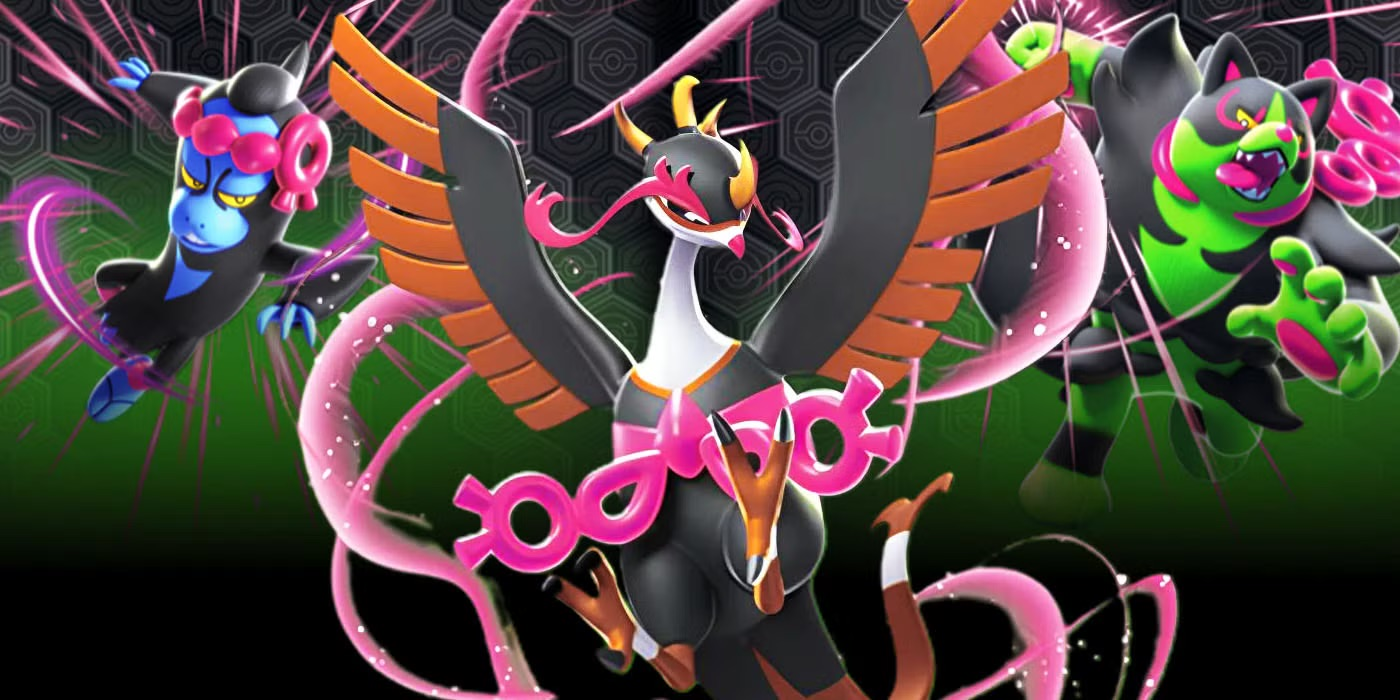
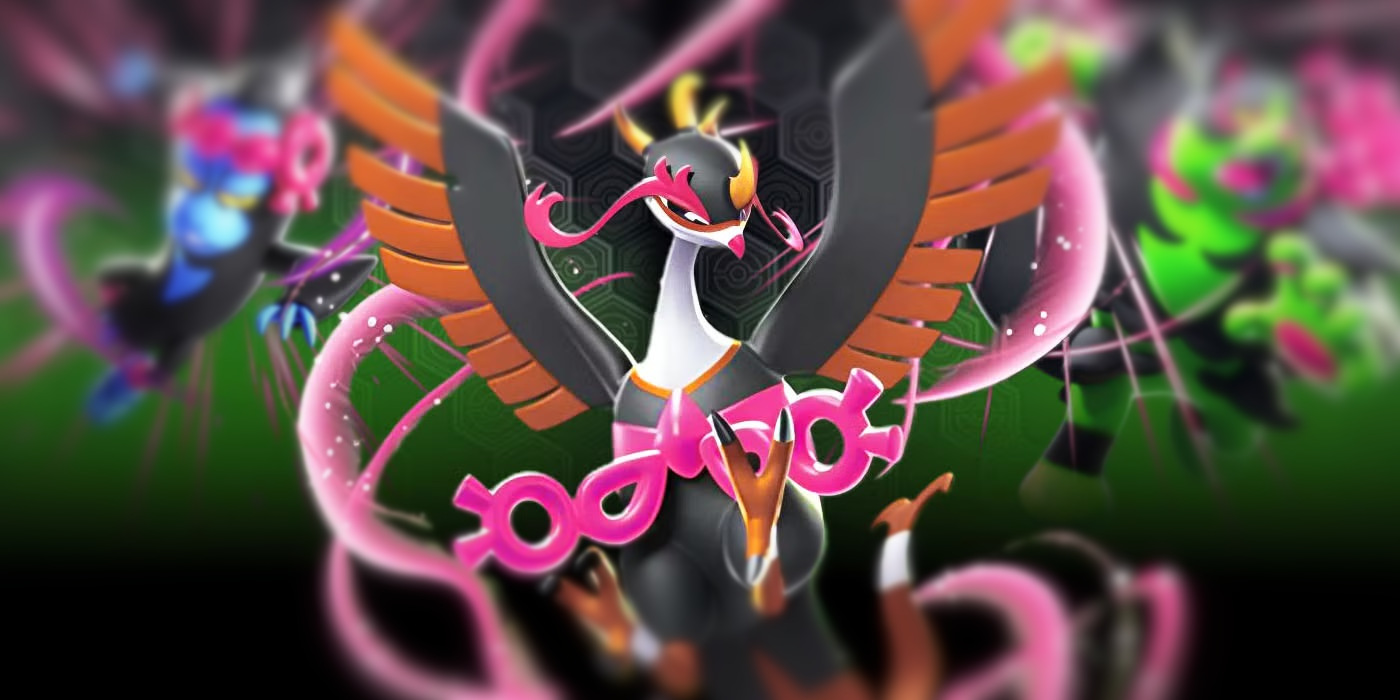
Day 4 First

diff --git a/src/index.css b/src/index.css
@@ -80,17 +80,25 @@ video {
 .Pimage {
     position: relative;
     height: 90vh;
-    filter: blur(8px);
-    -webkit-filter: blur(8px);
-    -webkit-filter: drop-shadow(12);
-    border-radius: 40px 40px 40px 40px;
+    border-radius: 40px; /* Simplified border-radius shorthand */
+    overflow: hidden; /* Ensure the content respects the border-radius */
+    z-index: 1; /* Ensure the background stays behind the logo */
+}
+.Pimage ::backdrop {
+    filter: blur(8px); /* Apply blur to the background */
+    -webkit-filter: blur(8px) drop-shadow(12px); /* Apply both blur and drop shadow */
+}
+.Plogo {
+    position: absolute;
+    top: 300px;           
+    left: 50%;          
+    transform: translate(-50%, -50%); /* Center logo vertically and horizontally */
+    z-index: 2; /* Ensure the logo stays on top of the blurred background */
 }
 
-.content {
-    display: flex;
-    align-items: center;
-    justify-content: center;
-    position: absolute;
-    height: 100vh;
-    width: 100%;
+.Plogo img {
+    width: 700px; /* Set logo size */
+    height: auto; /* Maintain aspect ratio */
+    filter: drop-shadow(12px); /* Keep drop shadow for the logo */
+    -webkit-filter: drop-shadow(12px);
 }

diff --git a/src/ImageTwilight.tsx b/src/ImageTwilight.tsx
@@ -1,8 +1,12 @@
 import { Parallax } from "react-parallax";
-import Twilight from "./assets/Twilight/TwilightmasBGIMG.jpg";
-
+import Twilight from "./assets/Twilight/TwilightmasBGIMG.jpeg";
+import Logo from "./assets/Twilight/TwilightMasLogo.png";
 const ImageTwilight = () => (
-  <Parallax className="Pimage" bgImage={Twilight} strength={200}></Parallax>
+  <Parallax className="Pimage" bgImage={Twilight} strength={200}>
+    <div className="Plogo">
+      <img src={Logo} alt="" />
+    </div>
+  </Parallax>
 );
 
 export default ImageTwilight;

diff --git a/src/ImageShrouded.tsx b/src/ImageShrouded.tsx
@@ -1,8 +1,13 @@
 import { Parallax } from "react-parallax";
 import Shrouded from "./assets/Shrouded/ShroudedFableBGIMG.jpeg";
+import Logo from "./assets/Shrouded/ShroudedFableLogo.png";
 
 const ImageShroud = () => (
-  <Parallax className="Pimage" bgImage={Shrouded} strength={200}></Parallax>
+  <Parallax className="Pimage" bgImage={Shrouded} strength={200}>
+    <div className="Plogo">
+      <img src={Logo} alt="" />
+    </div>
+  </Parallax>
 );
 
 export default ImageShroud;

diff --git a/src/ImageStellar.tsx b/src/ImageStellar.tsx
@@ -1,8 +1,13 @@
 import { Parallax } from "react-parallax";
 import Stellar from "./assets/Stellar/StellarCrownBGIMG.jpeg";
+import Logo from "./assets/Stellar/StellarCrownLogo.png";
 
 const ImageStellar = () => (
-  <Parallax className="Pimage" bgImage={Stellar} strength={200}></Parallax>
+  <Parallax className="Pimage" bgImage={Stellar} strength={200}>
+    <div className="Plogo">
+      <img src={Logo} alt="" />
+    </div>
+  </Parallax>
 );
 
 export default ImageStellar;
